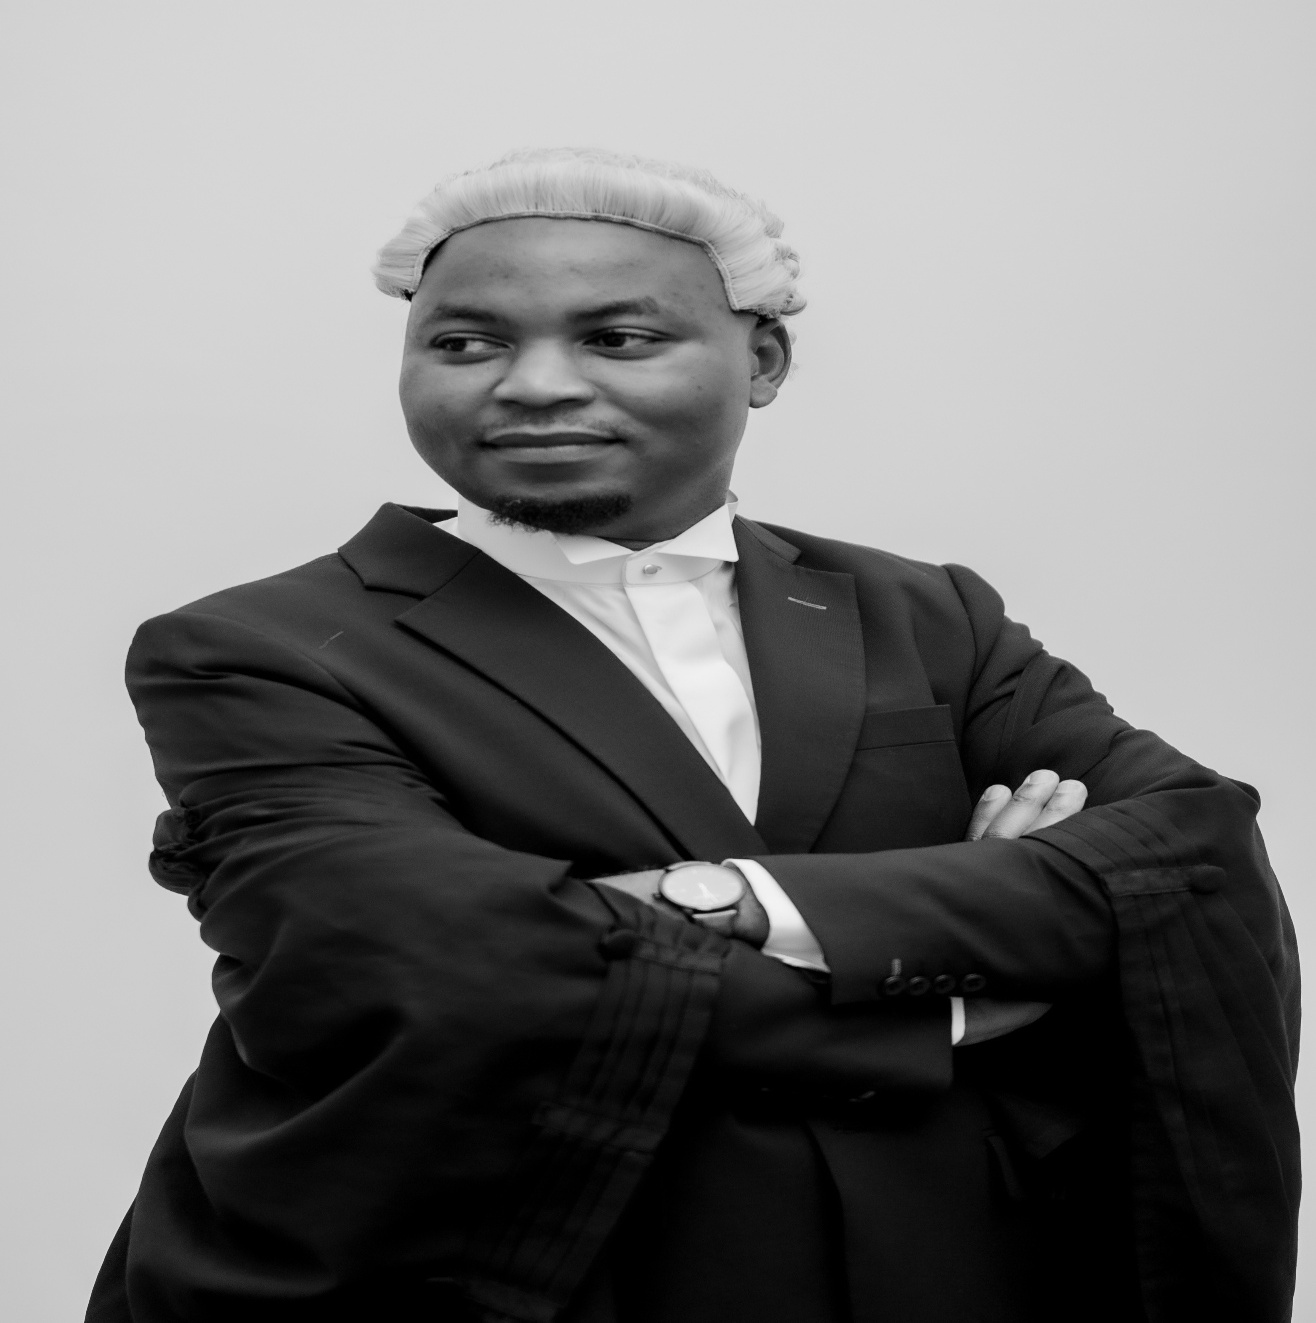
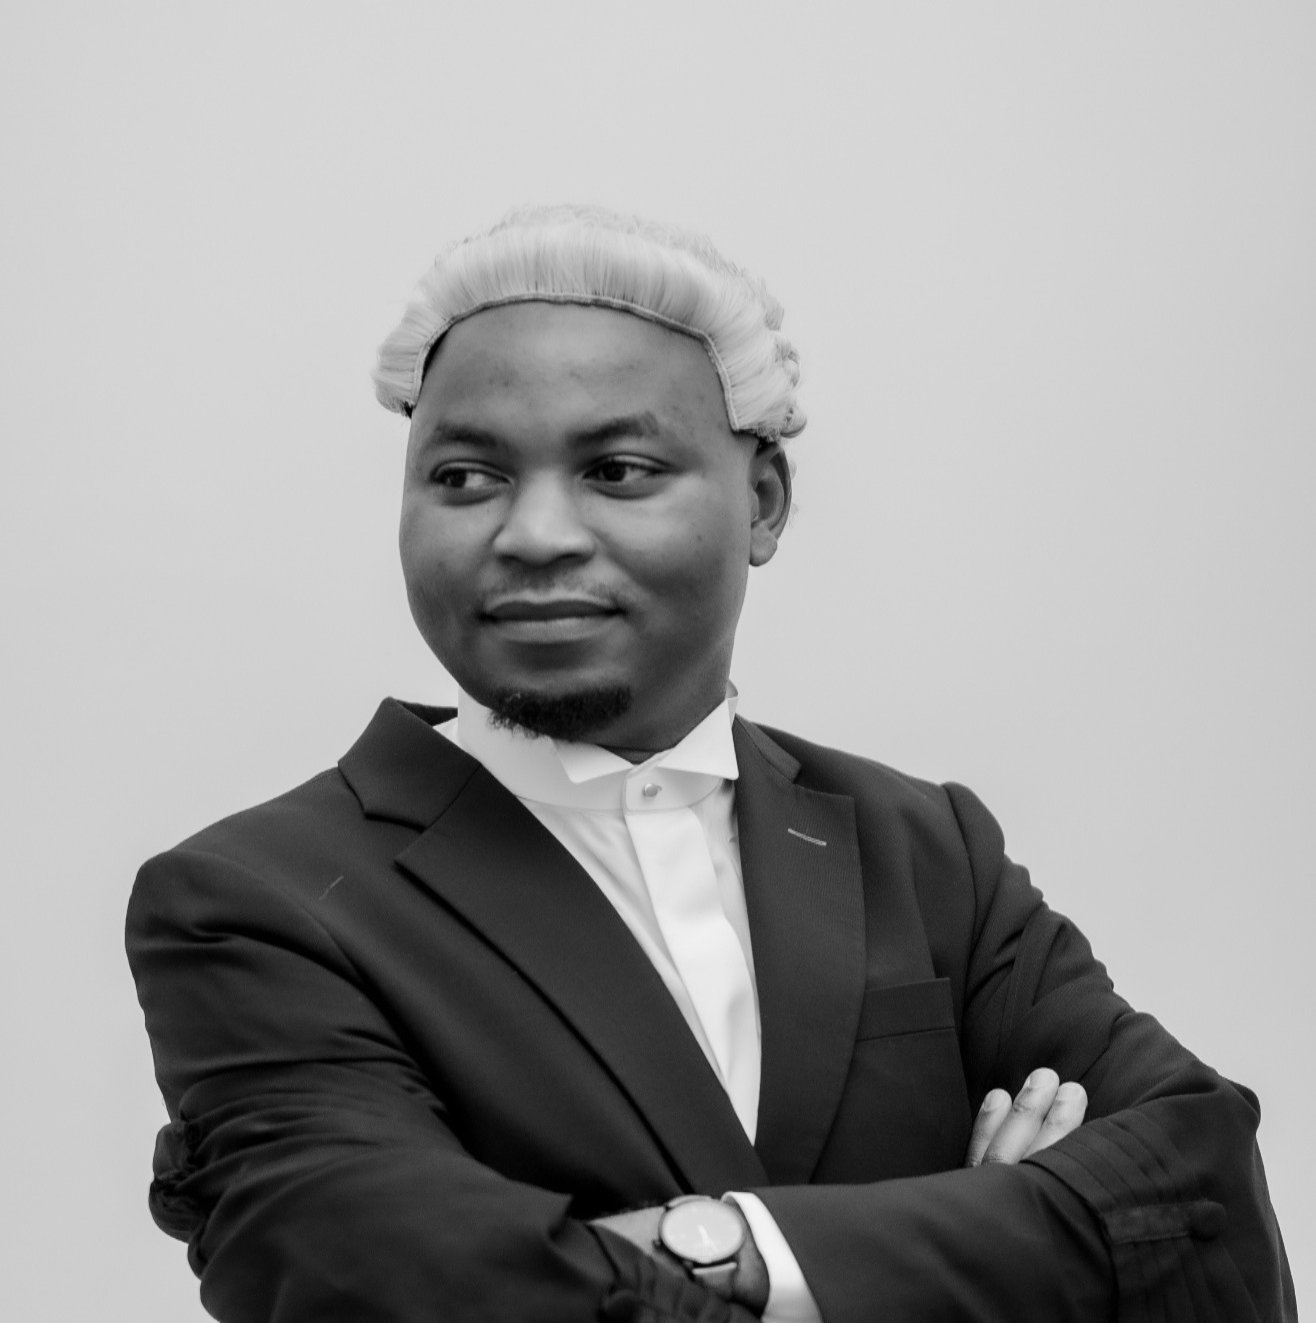
Fixes
- Added NxtGen
- Fix Speaker Aspect Ratio
- Fix Category Badge Alignment

diff --git a/src/app/_base/sponsors/$sponsorId.tsx b/src/app/_base/sponsors/$sponsorId.tsx
@@ -1,8 +1,8 @@
 import { createFileRoute, Link, notFound } from "@tanstack/react-router"
 import { z } from "zod"
 
-import { Badge } from "@/components/ui/badge"
 import { Seo } from "@/components/layout/seo"
+import { Badge } from "@/components/ui/badge"
 import sponsorData from "@/data/logos.json"
 
 interface Sponsor {
@@ -45,8 +45,7 @@ const tierConfig = {
 
 export const Route = createFileRoute("/_base/sponsors/$sponsorId")({
   component: SponsorDetailPage,
-  parseParams: (params) =>
-    z.object({ sponsorId: z.string() }).parse(params),
+  parseParams: (params) => z.object({ sponsorId: z.string() }).parse(params),
   beforeLoad: ({ params }) => {
     const sponsor = sponsors.find((s) => s.id === params.sponsorId)
     if (!sponsor) {
@@ -151,38 +150,42 @@ function SponsorDetailPage() {
           )}
 
           {/* Category Badge */}
-          <div className="mb-12 flex flex-wrap items-center gap-4">
-            <div className="rounded-full bg-gradient-to-r from-brand-red/10 to-brand-red/5 px-6 py-3">
+          <div className="align-item-center mb-12 flex flex-wrap">
+            <div className="flex flex-col">
               <span className="text-sm font-semibold uppercase tracking-wide text-brand-red">
                 Category
               </span>
-              <p className="mt-1 text-lg font-bold capitalize text-brand-black">
-                {sponsor.category}
-              </p>
+              <div className="align-items-center flex flex-row gap-4">
+                <div className="w-auto min-w-fit rounded-full bg-gradient-to-r from-brand-red/10 to-brand-red/5 px-6 py-3">
+                  <p className="mt-1 text-lg font-bold capitalize text-brand-black">
+                    {sponsor.category}
+                  </p>
+                </div>
+                {sponsor.website && (
+                  <a
+                    href={sponsor.website}
+                    target="_blank"
+                    rel="noopener noreferrer"
+                    className="inline-flex items-center gap-2 rounded-full border-2 border-brand-red/20 bg-white px-6 py-3 text-sm font-bold text-brand-red transition-all hover:border-brand-red hover:bg-brand-red hover:text-white hover:shadow-lg"
+                  >
+                    Visit Website
+                    <svg
+                      className="h-4 w-4"
+                      fill="none"
+                      stroke="currentColor"
+                      viewBox="0 0 24 24"
+                    >
+                      <path
+                        strokeLinecap="round"
+                        strokeLinejoin="round"
+                        strokeWidth={2}
+                        d="M10 6H6a2 2 0 00-2 2v10a2 2 0 002 2h10a2 2 0 002-2v-4M14 4h6m0 0v6m0-6L10 14"
+                      />
+                    </svg>
+                  </a>
+                )}
+              </div>
             </div>
-            {sponsor.website && (
-              <a
-                href={sponsor.website}
-                target="_blank"
-                rel="noopener noreferrer"
-                className="inline-flex items-center gap-2 rounded-full border-2 border-brand-red/20 bg-white px-6 py-3 text-sm font-bold text-brand-red transition-all hover:border-brand-red hover:bg-brand-red hover:text-white hover:shadow-lg"
-              >
-                Visit Website
-                <svg
-                  className="h-4 w-4"
-                  fill="none"
-                  stroke="currentColor"
-                  viewBox="0 0 24 24"
-                >
-                  <path
-                    strokeLinecap="round"
-                    strokeLinejoin="round"
-                    strokeWidth={2}
-                    d="M10 6H6a2 2 0 00-2 2v10a2 2 0 002 2h10a2 2 0 002-2v-4M14 4h6m0 0v6m0-6L10 14"
-                  />
-                </svg>
-              </a>
-            )}
           </div>
 
           {/* Services Section */}
